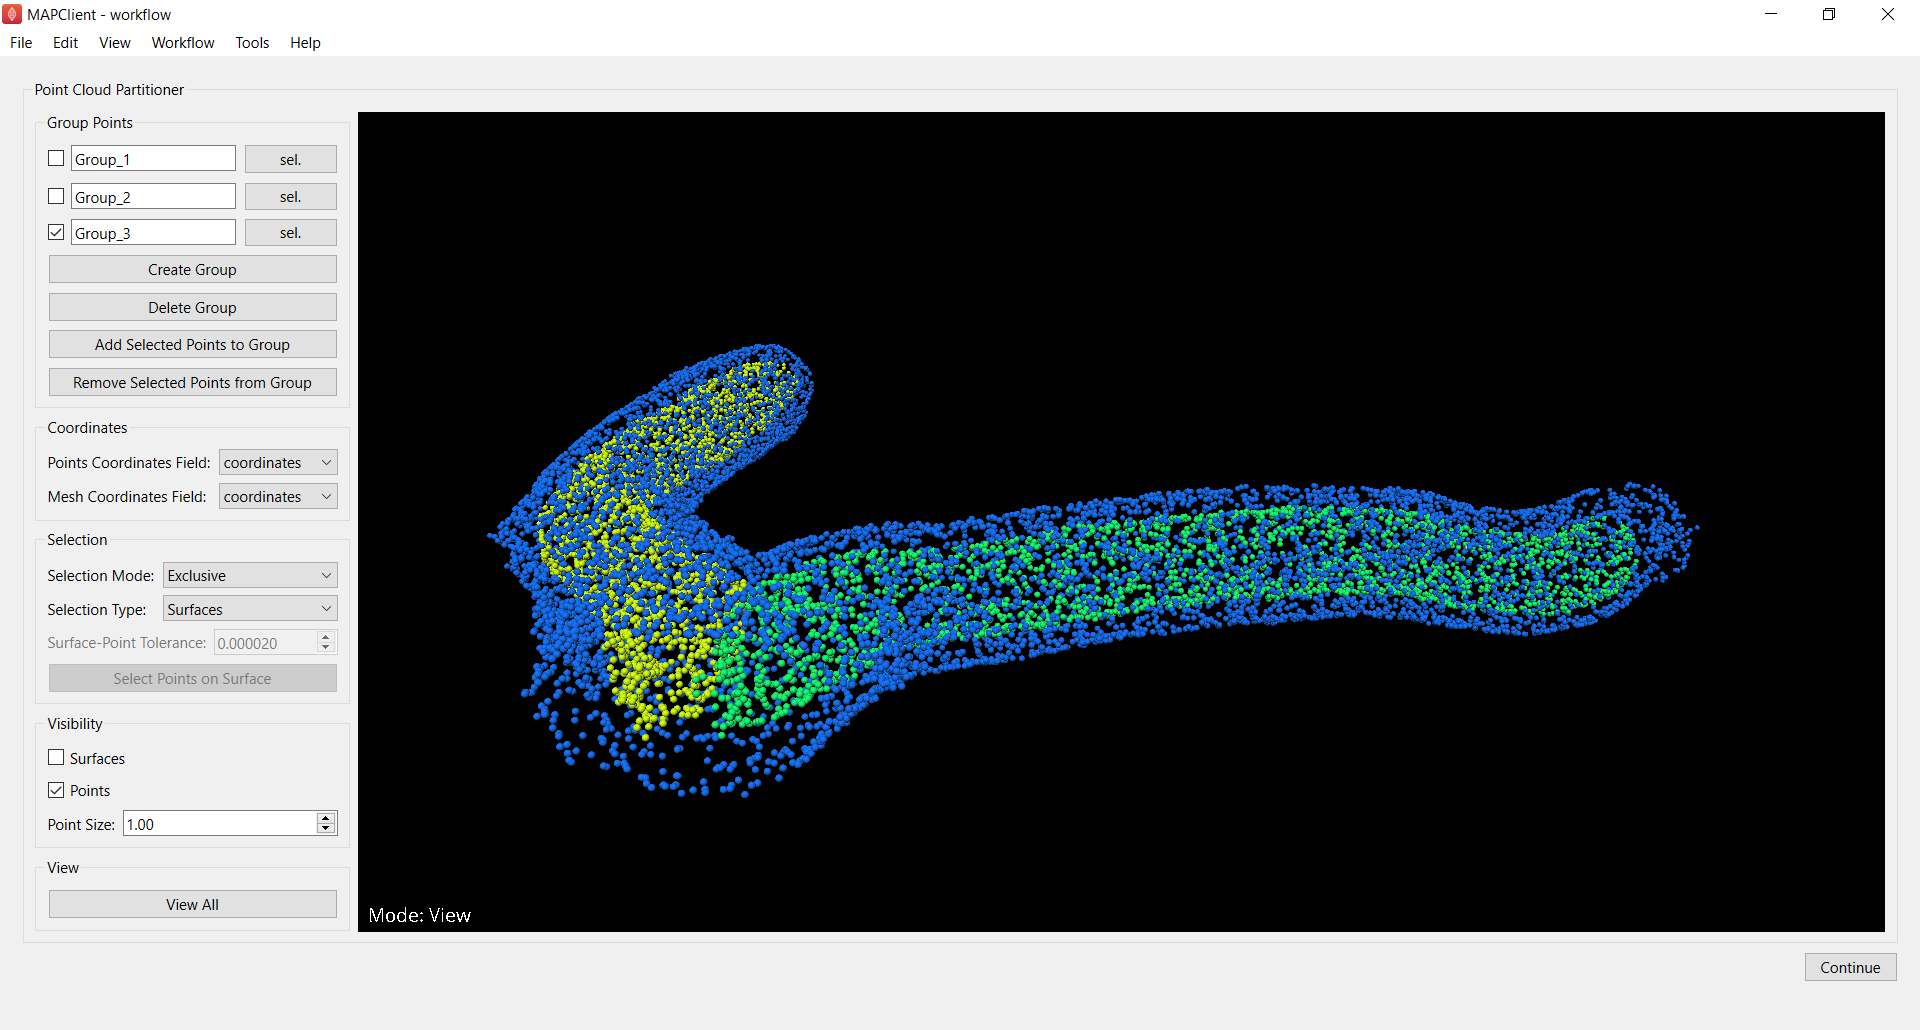
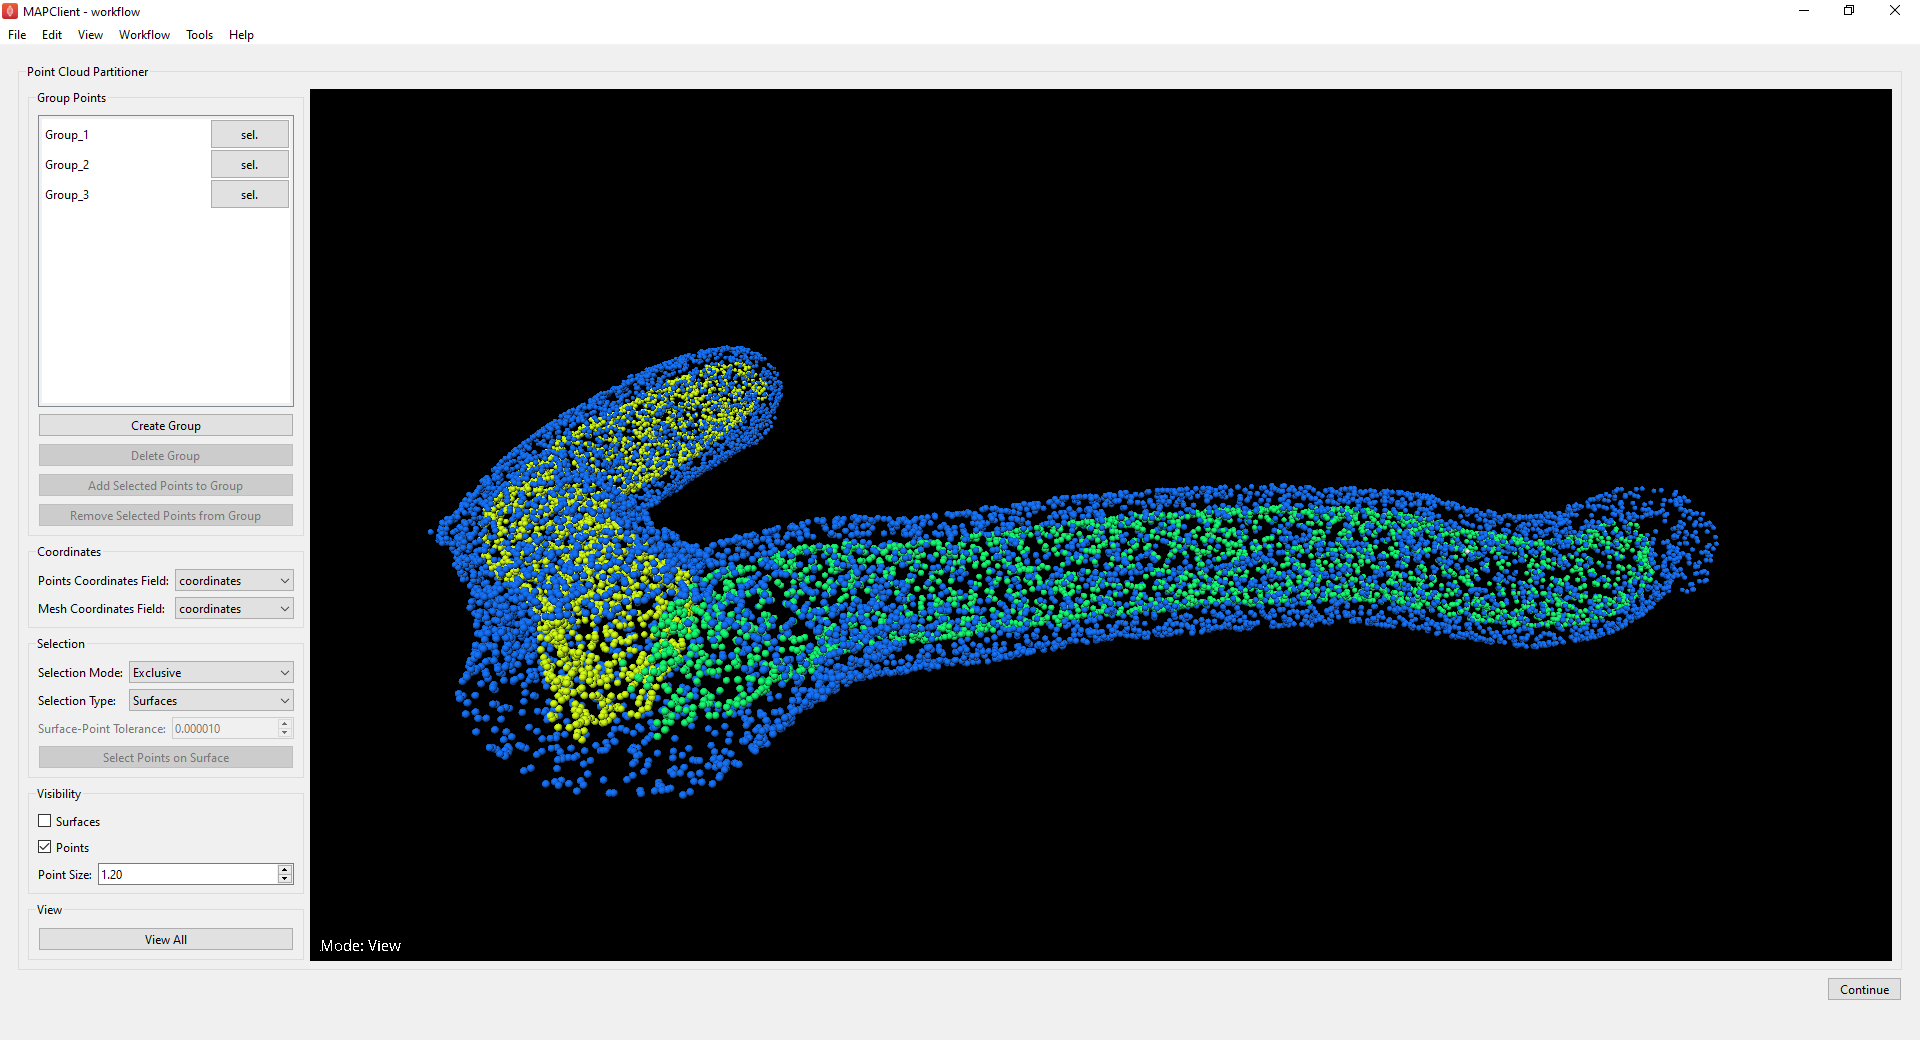
Update documentation

Changed region(s): [[0.0, 0.0, 1.0, 0.9631], [0.2188, 0.3107, 0.9062, 0.7767]]

diff --git a/docs/index.rst b/docs/index.rst
@@ -63,14 +63,21 @@ subsets.
 Grouping Points
 ^^^^^^^^^^^^^^^
 
-To create a new point group click the `Create Group` button in the `Group Points` section. This will add a check box and a label to the
+To create a new point group click the `Create Group` button in the `Group Points` section. This will add a new label to the
 `Group Points` section of the GUI, as well as a `sel.` button to select all points already assigned to that group.
 The group name defined in the label can be changed at any time and will be used to identify the group when
-it is written to the output file. Each point group is automatically assigned a display color.
+it is written to the output file. Each point group is automatically assigned a display colour.
 
-Once you have selected the points you wish to group, simply select the check box for the desired point group in the `Group Points` section
+It is also possible to manually re-order the group list items in the `Group Points` section by dragging and dropping the items to the
+desired locations. Doing so will re-assign the display colour assigned to each of the groups. In the case where a set of points is contained
+by multiple point groups, the group closest to the top of the list will be displayed "in front" of any other groups containing those points.
+
+Once you have selected the points you wish to group, simply select the desired point group in the `Group Points` section
 and click `Add Selected Points to Group`. Points can be removed from a group again by selecting them and clicking
-`Remove Selected Points from Group`. If you wish to remove a point group entirely, select its check box and click `Remove Group`.
+`Remove Selected Points from Group`. If you wish to remove a point group entirely, select it and click `Remove Group`.
+
+Note that the buttons to add or remove points from a group will be disabled if there aren't any points selected. Similarly, the button to
+delete a point group will only be available if the user has selected a group from the list.
 
 .. _advanced-selection:
 
